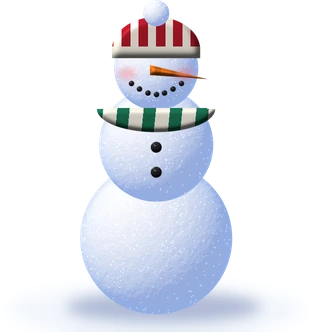
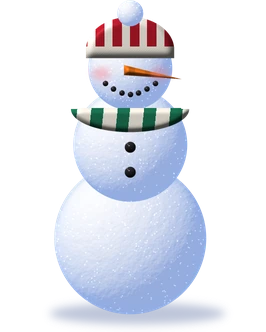
feat: suolo di neve continuo in basso, con i pupazzi affondati nella neve

diff --git a/modello.html b/modello.html
@@ -45,15 +45,17 @@ body{
 @keyframes dondola{0%,100%{transform:rotate(3.5deg)}50%{transform:rotate(-3.5deg)}}
 
 /* Rami di pino negli angoli */
-.pup{position:fixed;bottom:-2px;z-index:1;pointer-events:none;width:clamp(58px,min(17vw,12.5dvh),170px);transform-origin:50% 100%;animation:pupDondola 4.2s ease-in-out infinite}
-.pup.sx{left:clamp(0px,1vw,20px);aspect-ratio:312/362;--sy:45.4%;--cy:40.1%;--ey:23.5%}
-.pup.dx{right:clamp(0px,1vw,20px);aspect-ratio:312/332;--sy:40.5%;--cy:34.6%;--ey:16.6%;animation-delay:-1.7s}
+:root{--sh:clamp(24px,3.7dvh,40px)}
+#suolo{position:fixed;left:0;right:0;bottom:0;height:var(--sh);z-index:2;pointer-events:none;background:url(../assets/suolo.webp) repeat-x 0 100%/auto 100%}
+.pup{position:fixed;bottom:calc(var(--sh) * .34);z-index:1;pointer-events:none;width:clamp(50px,min(14.8vw,11.2dvh),150px);transform-origin:50% 100%;animation:pupDondola 4.2s ease-in-out infinite}
+.pup.sx{left:clamp(0px,1vw,20px);aspect-ratio:266/362;--sy:45.4%;--cy:40.1%;--ey:23.5%}
+.pup.dx{right:clamp(0px,1vw,20px);aspect-ratio:266/332;--sy:40.5%;--cy:34.6%;--ey:16.6%;animation-delay:-1.7s}
 .pup .l{position:absolute;inset:0;width:100%;height:100%;display:block}
-.pup .bsx{transform-origin:42% var(--sy);animation:saluta 2.6s ease-in-out infinite}
-.pup .bdx{transform-origin:58% var(--sy);animation:salutaD 2.6s ease-in-out 1.3s infinite}
+.pup .bsx{transform-origin:39.5% var(--sy);animation:saluta 2.6s ease-in-out infinite}
+.pup .bdx{transform-origin:58.3% var(--sy);animation:salutaD 2.6s ease-in-out 1.3s infinite}
 .pup.dx .bsx{animation-delay:.9s}
-.pup .coda{transform-origin:61.7% var(--cy);animation:codaVento 3.2s ease-in-out infinite}
-.pup .occhi{transform-origin:50% var(--ey);animation:sbatte 5.5s infinite}
+.pup .coda{transform-origin:62.6% var(--cy);animation:codaVento 3.2s ease-in-out infinite}
+.pup .occhi{transform-origin:48.9% var(--ey);animation:sbatte 5.5s infinite}
 .pup.dx .occhi{animation-delay:-2.2s}
 @keyframes pupDondola{0%,100%{transform:rotate(-1.3deg)}50%{transform:rotate(1.3deg) scaleY(1.012)}}
 @keyframes saluta{0%,100%{transform:rotate(0)}50%{transform:rotate(17deg)}}
@@ -142,7 +144,7 @@ h1{font-family:"Cinzel",serif;font-weight:700;font-size:clamp(1.9rem,min(7vw,6.5
 #gira h2 b{color:var(--oro-chiaro);font-style:italic}
 @media (max-width:980px) and (orientation:landscape){
   #gira{display:flex}
-  main,#ghirlanda,.pup{display:none}
+  main,#ghirlanda,.pup,#suolo{display:none}
   body{overflow:hidden}
 }
 
@@ -275,6 +277,7 @@ main:has(#rivela.visibile) .titolo{display:none}
 </div>
 <div id="ghirlanda" aria-hidden="true"></div>
 
+<div id="suolo" aria-hidden="true"></div>
 <!-- Pupazzi di neve (immagini calcolate, vedi crea_asset_natale.py) -->
 <div class="pup sx" aria-hidden="true"><img class="l bsx" src="../assets/pupazzo-sx-bsx.webp" alt=""><img class="l bdx" src="../assets/pupazzo-sx-bdx.webp" alt=""><img class="l corpo" src="../assets/pupazzo-sx-corpo.webp" alt=""><img class="l occhi" src="../assets/pupazzo-sx-occhi.webp" alt=""><img class="l coda" src="../assets/pupazzo-sx-coda.webp" alt=""></div>
 <div class="pup dx" aria-hidden="true"><img class="l bsx" src="../assets/pupazzo-dx-bsx.webp" alt=""><img class="l bdx" src="../assets/pupazzo-dx-bdx.webp" alt=""><img class="l corpo" src="../assets/pupazzo-dx-corpo.webp" alt=""><img class="l occhi" src="../assets/pupazzo-dx-occhi.webp" alt=""><img class="l coda" src="../assets/pupazzo-dx-coda.webp" alt=""></div>

diff --git a/prova/index.html b/prova/index.html
@@ -45,15 +45,17 @@ body{
 @keyframes dondola{0%,100%{transform:rotate(3.5deg)}50%{transform:rotate(-3.5deg)}}
 
 /* Rami di pino negli angoli */
-.pup{position:fixed;bottom:-2px;z-index:1;pointer-events:none;width:clamp(58px,min(17vw,12.5dvh),170px);transform-origin:50% 100%;animation:pupDondola 4.2s ease-in-out infinite}
-.pup.sx{left:clamp(0px,1vw,20px);aspect-ratio:312/362;--sy:45.4%;--cy:40.1%;--ey:23.5%}
-.pup.dx{right:clamp(0px,1vw,20px);aspect-ratio:312/332;--sy:40.5%;--cy:34.6%;--ey:16.6%;animation-delay:-1.7s}
+:root{--sh:clamp(24px,3.7dvh,40px)}
+#suolo{position:fixed;left:0;right:0;bottom:0;height:var(--sh);z-index:2;pointer-events:none;background:url(../assets/suolo.webp) repeat-x 0 100%/auto 100%}
+.pup{position:fixed;bottom:calc(var(--sh) * .34);z-index:1;pointer-events:none;width:clamp(50px,min(14.8vw,11.2dvh),150px);transform-origin:50% 100%;animation:pupDondola 4.2s ease-in-out infinite}
+.pup.sx{left:clamp(0px,1vw,20px);aspect-ratio:266/362;--sy:45.4%;--cy:40.1%;--ey:23.5%}
+.pup.dx{right:clamp(0px,1vw,20px);aspect-ratio:266/332;--sy:40.5%;--cy:34.6%;--ey:16.6%;animation-delay:-1.7s}
 .pup .l{position:absolute;inset:0;width:100%;height:100%;display:block}
-.pup .bsx{transform-origin:42% var(--sy);animation:saluta 2.6s ease-in-out infinite}
-.pup .bdx{transform-origin:58% var(--sy);animation:salutaD 2.6s ease-in-out 1.3s infinite}
+.pup .bsx{transform-origin:39.5% var(--sy);animation:saluta 2.6s ease-in-out infinite}
+.pup .bdx{transform-origin:58.3% var(--sy);animation:salutaD 2.6s ease-in-out 1.3s infinite}
 .pup.dx .bsx{animation-delay:.9s}
-.pup .coda{transform-origin:61.7% var(--cy);animation:codaVento 3.2s ease-in-out infinite}
-.pup .occhi{transform-origin:50% var(--ey);animation:sbatte 5.5s infinite}
+.pup .coda{transform-origin:62.6% var(--cy);animation:codaVento 3.2s ease-in-out infinite}
+.pup .occhi{transform-origin:48.9% var(--ey);animation:sbatte 5.5s infinite}
 .pup.dx .occhi{animation-delay:-2.2s}
 @keyframes pupDondola{0%,100%{transform:rotate(-1.3deg)}50%{transform:rotate(1.3deg) scaleY(1.012)}}
 @keyframes saluta{0%,100%{transform:rotate(0)}50%{transform:rotate(17deg)}}
@@ -142,7 +144,7 @@ h1{font-family:"Cinzel",serif;font-weight:700;font-size:clamp(1.9rem,min(7vw,6.5
 #gira h2 b{color:var(--oro-chiaro);font-style:italic}
 @media (max-width:980px) and (orientation:landscape){
   #gira{display:flex}
-  main,#ghirlanda,.pup{display:none}
+  main,#ghirlanda,.pup,#suolo{display:none}
   body{overflow:hidden}
 }
 
@@ -275,6 +277,7 @@ main:has(#rivela.visibile) .titolo{display:none}
 </div>
 <div id="ghirlanda" aria-hidden="true"></div>
 
+<div id="suolo" aria-hidden="true"></div>
 <!-- Pupazzi di neve (immagini calcolate, vedi crea_asset_natale.py) -->
 <div class="pup sx" aria-hidden="true"><img class="l bsx" src="../assets/pupazzo-sx-bsx.webp" alt=""><img class="l bdx" src="../assets/pupazzo-sx-bdx.webp" alt=""><img class="l corpo" src="../assets/pupazzo-sx-corpo.webp" alt=""><img class="l occhi" src="../assets/pupazzo-sx-occhi.webp" alt=""><img class="l coda" src="../assets/pupazzo-sx-coda.webp" alt=""></div>
 <div class="pup dx" aria-hidden="true"><img class="l bsx" src="../assets/pupazzo-dx-bsx.webp" alt=""><img class="l bdx" src="../assets/pupazzo-dx-bdx.webp" alt=""><img class="l corpo" src="../assets/pupazzo-dx-corpo.webp" alt=""><img class="l occhi" src="../assets/pupazzo-dx-occhi.webp" alt=""><img class="l coda" src="../assets/pupazzo-dx-coda.webp" alt=""></div>

diff --git a/crea_asset_natale.py b/crea_asset_natale.py
@@ -580,13 +580,8 @@ def crea_pupazzo(stile):
     tela = L["corpo"]
     yy, xx = np.mgrid[0:H, 0:W].astype(float)
 
-    # cumulo di neve e ombra a terra
-    mound = maschera_pil(W, H, lambda d, s: d.ellipse([60 * s, 800 * s, 640 * s, 905 * s], fill=255))
-    mound = ndi.gaussian_filter(mound, 14)
-    sfum = np.clip((yy - 800) / 110.0, 0, 1)
-    colm = np.array([248.0, 251.0, 255.0])[None, None, :] * (1 - 0.18 * sfum)[..., None] + np.array([190.0, 208.0, 240.0])[None, None, :] * (0.18 * sfum)[..., None]
-    tela.sopra(colm, mound * 0.97)
-    ombra = ndi.gaussian_filter(maschera_pil(W, H, lambda d, s: d.ellipse([170 * s, 820 * s, 560 * s, 880 * s], fill=255)), 14) * 0.45
+    # ombra morbida a terra (il suolo di neve e' un'immagine a parte)
+    ombra = ndi.gaussian_filter(maschera_pil(W, H, lambda d, s: d.ellipse([190 * s, 842 * s, 540 * s, 884 * s], fill=255)), 9) * 0.40
     tela.sopra(np.ones((H, W, 3)) * np.array([90.0, 110.0, 160.0]), ombra)
 
     # tre sfere di neve
@@ -707,9 +702,78 @@ def crea_pupazzi():
         print(lato, "dimensioni", cw, ch, "| spalla sx", pc(300, 505), "| spalla dx", pc(400, 505), "| coda", pc(423, 466), "| occhi", pc(350, 346))
 
 
+# =====================================================================
+#   SUOLO INNEVATO (striscia continua ripetibile in orizzontale)
+# =====================================================================
+def crea_suolo():
+    S = 2
+    W, H = 1200 * S, 190 * S
+    yy, xx = np.mgrid[0:H, 0:W].astype(float)
+    u = xx / W * 2 * math.pi
+
+    def cresta(base, seno, seed):
+        y = np.full(W, base * H)
+        xs = np.arange(W)
+        uu = xs / W * 2 * math.pi
+        for cicli, amp, fase in seno:
+            y += amp * S * np.sin(cicli * uu + fase)
+        n = ndi.gaussian_filter(np.random.default_rng(seed).standard_normal(W), 26 * S, mode="wrap")
+        n = n / (n.std() + 1e-9)
+        y += 3.0 * S * n
+        return y
+
+    def strato(cr, c_alto, c_basso, scala_ombra):
+        d = yy - cr[None, :]                     # distanza sotto la cresta (px)
+        a = np.clip(d / 1.4 + 0.5, 0, 1)          # bordo morbido
+        t = np.clip(d / (scala_ombra * S), 0, 1)
+        t = t * t * (3 - 2 * t)
+        col = np.array(c_alto)[None, None, :] * (1 - t[..., None]) + np.array(c_basso)[None, None, :] * t[..., None]
+        # riflesso luminoso sulla cresta
+        rim = np.exp(-(np.clip(d, 0, None) / (3.5 * S)) ** 2) * (d >= 0)
+        col = col + 14 * rim[..., None]
+        # ombre bluastre sulle pendenze rivolte a destra (luce da sinistra)
+        pend = np.gradient(cr)
+        ombra = np.clip(pend, 0, None)[None, :] * 1.6
+        ombra = ndi.gaussian_filter(ombra, (0, 6 * S))
+        col = col - np.array([30.0, 18.0, 4.0])[None, None, :] * np.clip(ombra * np.exp(-(np.clip(d, 0, None) / (26 * S))), 0, 1)[..., None]
+        return col, a
+
+    out_rgb = np.zeros((H, W, 3))
+    out_a = np.zeros((H, W))
+
+    # colline lontane
+    cr_b = cresta(0.20, ((2, 7, 1.0), (5, 4, 0.2), (9, 2.2, 2.1)), 11)
+    rgb_b, a_b = strato(cr_b, (214, 228, 250), (168, 192, 232), 60)
+    out_rgb = rgb_b * a_b[..., None] + out_rgb * (1 - a_b[..., None])
+    out_a = a_b + out_a * (1 - a_b)
+
+    # ombra proiettata dalla collina davanti
+    cr_f = cresta(0.40, ((2, 9, 4.0), (4, 6, 0.6), (7, 3.5, 1.7), (13, 1.6, 2.6)), 23)
+    d_f = yy - cr_f[None, :]
+    cast = np.exp(-(np.clip(-d_f, 0, None) / (9 * S)) ** 2) * (d_f < 0) * 0.30
+    out_rgb = out_rgb * (1 - cast[..., None]) + np.array([120.0, 144.0, 200.0]) * cast[..., None] * out_a[..., None]
+
+    # collina davanti
+    rgb_f, a_f = strato(cr_f, (254, 254, 255), (206, 222, 248), 85)
+    out_rgb = rgb_f * a_f[..., None] + out_rgb * (1 - a_f[..., None])
+    out_a = a_f + out_a * (1 - a_f)
+
+    # piccole irregolarita' e scintillii
+    grana = fractal((H, W), [3, 1.2], [1, 1], 5)
+    out_rgb = out_rgb * (1 + 0.012 * grana)[..., None]
+    sp = (np.random.default_rng(8).random((H, W)) > 0.9985).astype(float)
+    sp = ndi.gaussian_filter(sp, 0.9 * S) * 7
+    out_rgb = out_rgb + 90 * sp[..., None] * (out_a[..., None] > 0.9)
+
+    arr = np.dstack([np.clip(out_rgb, 0, 255), out_a * 255]).astype(np.uint8)
+    im = Image.fromarray(arr, "RGBA").resize((W // S, H // S), Image.LANCZOS)
+    im.save(os.path.join(USCITA, "suolo.webp"), quality=90, method=6)
+    print("suolo", im.size, os.path.getsize(os.path.join(USCITA, "suolo.webp")) // 1024, "KB")
+
+
 if __name__ == "__main__":
     import sys
-    cosa = sys.argv[1:] or ["palline", "ghirlanda", "ramo", "pupazzi"]
+    cosa = sys.argv[1:] or ["palline", "ghirlanda", "ramo", "pupazzi", "suolo"]
     if "palline" in cosa:
         crea_palline()
     if "ghirlanda" in cosa:
@@ -718,3 +782,5 @@ if __name__ == "__main__":
         crea_ramo()
     if "pupazzi" in cosa:
         crea_pupazzi()
+    if "suolo" in cosa:
+        crea_suolo()
